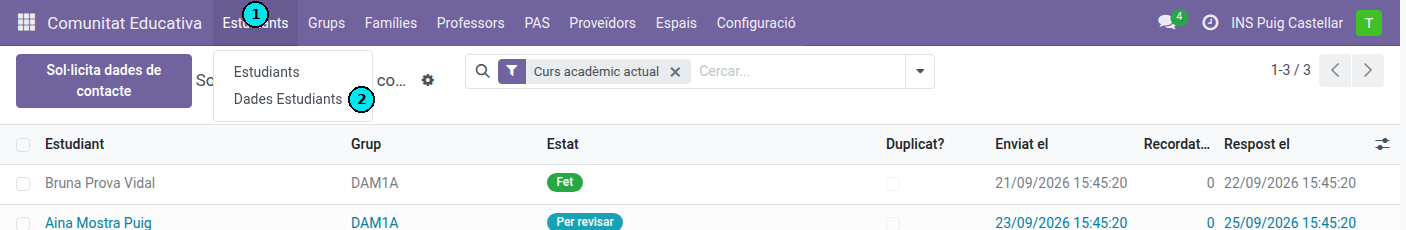
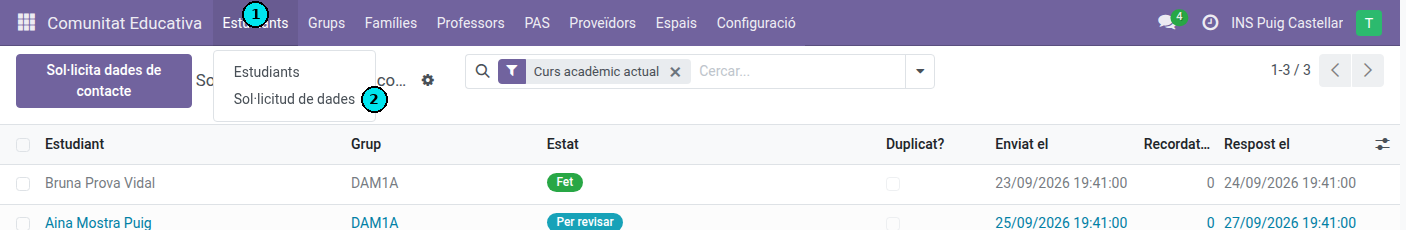
done

diff --git a/static/tests/tours/contact_data_request_tour.js b/static/tests/tours/contact_data_request_tour.js
@@ -143,7 +143,7 @@ registry.category("web_tour.tours").add("ems_contact_data_tutor", {
 });
 
 // Educational Community opens the Students list, and its Students section (a dropdown, since it now
-// holds two entries) leads to Student Data. Selectors are the menus' xmlids: the labels are translated.
+// holds two entries) leads to Data request. Selectors are the menus' xmlids: the labels are translated.
 registry.category("web_tour.tours").add("ems_contact_data_menu", {
     test: true,
     url: "/odoo",
@@ -173,12 +173,12 @@ registry.category("web_tour.tours").add("ems_contact_data_menu", {
         },
         {
             trigger: ".o-dropdown--menu .dropdown-item[data-menu-xmlid='ems.menu_contact_data_requests']",
-            content: "and Student Data",
+            content: "and Data request",
             run: "click",
         },
         {
             trigger: ".o_action_manager .o_list_view",
-            content: "Student Data lists the contact data requests",
+            content: "Data request lists the contact data requests",
         },
     ],
 });

diff --git a/tests/test_contact_data_request.py b/tests/test_contact_data_request.py
@@ -386,10 +386,10 @@ class TestContactDataRequestCorporateEmail(TransactionCase):
 
 
 class TestContactDataRequestMenu(TransactionCase):
-    """Student Data sits under Educational Community > Students (issue #507): Students is a section
+    """Data request sits under Educational Community > Students (issue #507): Students is a section
     holding the Students list and this menu."""
 
-    def test_students_is_a_section_with_the_students_list_and_student_data(self):
+    def test_students_is_a_section_with_the_students_list_and_data_request(self):
         community = self.env.ref('ems.menu_community')
         section = self.env.ref('ems.menu_students_root')
         students = self.env.ref('ems.menu_students')
@@ -404,8 +404,8 @@ class TestContactDataRequestMenu(TransactionCase):
     def test_menu_names_are_translated(self):
         section = self.env.ref('ems.menu_students_root')
         data = self.env.ref('ems.menu_contact_data_requests')
-        self.assertEqual(data.with_context(lang='en_US').name, 'Student Data')
-        self.assertEqual(data.with_context(lang='ca_ES').name, 'Dades Estudiants')
-        self.assertEqual(data.with_context(lang='es_ES').name, 'Datos Estudiantes')
+        self.assertEqual(data.with_context(lang='en_US').name, 'Data request')
+        self.assertEqual(data.with_context(lang='ca_ES').name, 'Sol·licitud de dades')
+        self.assertEqual(data.with_context(lang='es_ES').name, 'Solicitud de datos')
         self.assertEqual(section.with_context(lang='ca_ES').name, 'Estudiants')
         self.assertEqual(section.with_context(lang='es_ES').name, 'Estudiantes')

diff --git a/migrations/18.0.0.30.1/post-migrate.py b/migrations/18.0.0.30.1/post-migrate.py
@@ -1,0 +1,22 @@
+import logging
+
+_logger = logging.getLogger(__name__)
+
+
+def _drop_stale_data_request_menu_translations(cr):
+    """The "Student Data" menu (menu_contact_data_requests) was renamed "Data request". The
+    upgrade writes the new English name, but loads the .po files without overwriting existing
+    values, so the Catalan and Spanish names kept the old label. Dropping those two keys here
+    (post-migrate runs before the translations load) lets the .po fill them in again."""
+    cr.execute("""
+        UPDATE ir_ui_menu
+           SET name = name - 'ca_ES' - 'es_ES'
+         WHERE id = (SELECT res_id FROM ir_model_data
+                      WHERE module = 'ems' AND name = 'menu_contact_data_requests')
+    """)
+    if cr.rowcount:
+        _logger.info("Migration 18.0.0.30.1: reset the translations of the Data request menu.")
+
+
+def migrate(cr, version):
+    _drop_stale_data_request_menu_translations(cr)

diff --git a/__manifest__.py b/__manifest__.py
@@ -18,7 +18,7 @@
     # Check https://github.com/odoo/odoo/blob/16.0/odoo/addons/base/data/ir_module_category_data.xml
     # for the full list
     'category': 'Educational',
-    'version': '18.0.0.30.0',    #18.0 means the Odoo version; x.y.z means 'breaking.feature.fix'. The '0.y.z' is for alpha/beta pre-release.
+    'version': '18.0.0.30.1',    #18.0 means the Odoo version; x.y.z means 'breaking.feature.fix'. The '0.y.z' is for alpha/beta pre-release.
 
     # any module necessary for this one to work correctly
     # only 'base_setup', 'hr', 'auth_oauth' are needed. The rest are installed sometimes (and sometimes nor) and I don't know why, so I decided to install all manyally in order to avoid errors.

diff --git a/docs/es/tutors/contact-data-requests.md b/docs/es/tutors/contact-data-requests.md
@@ -22,9 +22,9 @@ Disponible para los tutores de grupo (para su alumnado), la secretaría y la jef
 
 ## Enviar una solicitud
 
-![Menú Comunidad educativa con la sección Estudiantes abierta: Estudiantes y Datos Estudiantes](../../assets/tutors/dades-contacte-01-menu.png)
+![Menú Comunidad educativa con la sección Estudiantes abierta: Estudiantes y Solicitud de datos](../../assets/tutors/dades-contacte-01-menu.png)
 
-1. Id a **Comunidad educativa → Estudiantes (1) → Datos Estudiantes (2)** y haced clic en **Solicitar datos de contacto**. También podéis abrirlo desde el menú ⚙ de la lista de estudiantes, de la ficha de un estudiante, de la lista de grupos o de la ficha de un grupo.
+1. Id a **Comunidad educativa → Estudiantes (1) → Solicitud de datos (2)** y haced clic en **Solicitar datos de contacto**. También podéis abrirlo desde el menú ⚙ de la lista de estudiantes, de la ficha de un estudiante, de la lista de grupos o de la ficha de un grupo.
 2. Elegid quién la recibe:
    - **Grupos / estudios / niveles**: elegid los grupos. Los tutores solo pueden elegir sus grupos.
    - **Alumnos seleccionados**: elegid los alumnos uno a uno.
@@ -41,7 +41,7 @@ Cada alumno, o la familia de un menor, recibe un correo con un enlace al portal.
 
 ![Lista de seguimiento de las solicitudes, con los estados Pendiente de respuesta, Por revisar y Hecho](../../assets/tutors/dades-contacte-03-seguiment.png)
 
-En **Comunidad educativa → Estudiantes → Datos Estudiantes**:
+En **Comunidad educativa → Estudiantes → Solicitud de datos**:
 
 - **Pendiente de respuesta**: enviada, todavía sin respuesta.
 - **Por revisar**: la familia ha respondido.

diff --git a/docs/ca/tutors/contact-data-requests.md b/docs/ca/tutors/contact-data-requests.md
@@ -22,9 +22,9 @@ Disponible per als tutors de grup (per al seu alumnat), la secretaria i la direc
 
 ## Enviar una sol·licitud
 
-![Menú Comunitat Educativa amb la secció Estudiants oberta: Estudiants i Dades Estudiants](../../assets/tutors/dades-contacte-01-menu.png)
+![Menú Comunitat Educativa amb la secció Estudiants oberta: Estudiants i Sol·licitud de dades](../../assets/tutors/dades-contacte-01-menu.png)
 
-1. Aneu a **Comunitat Educativa → Estudiants (1) → Dades Estudiants (2)** i feu clic a **Sol·licita dades de contacte**. També el podeu obrir des del menú ⚙ de la llista d'estudiants, de la fitxa d'un estudiant, de la llista de grups o de la fitxa d'un grup.
+1. Aneu a **Comunitat Educativa → Estudiants (1) → Sol·licitud de dades (2)** i feu clic a **Sol·licita dades de contacte**. També el podeu obrir des del menú ⚙ de la llista d'estudiants, de la fitxa d'un estudiant, de la llista de grups o de la fitxa d'un grup.
 2. Trieu qui la rep:
    - **Grups / estudis / nivells**: trieu els grups. Els tutors només poden triar els seus grups.
    - **Alumnes seleccionats**: trieu els alumnes un per un.
@@ -41,7 +41,7 @@ Cada alumne, o la família d'un menor, rep un correu amb un enllaç al portal. E
 
 ![Llista de seguiment de les sol·licituds, amb els estats Pendent de resposta, Per revisar i Fet](../../assets/tutors/dades-contacte-03-seguiment.png)
 
-A **Comunitat Educativa → Estudiants → Dades Estudiants**:
+A **Comunitat Educativa → Estudiants → Sol·licitud de dades**:
 
 - **Pendent de resposta**: enviada, encara sense resposta.
 - **Per revisar**: la família ha respost.

diff --git a/docs/en/tutors/contact-data-requests.md b/docs/en/tutors/contact-data-requests.md
@@ -22,9 +22,9 @@ Available to group tutors (for their own students), the secretariat and the Head
 
 ## Sending a request
 
-![Educational Community menu with the Students section open: Students and Student Data](../../assets/tutors/dades-contacte-01-menu.png)
+![Educational Community menu with the Students section open: Students and Data request](../../assets/tutors/dades-contacte-01-menu.png)
 
-1. Go to **Educational Community → Students (1) → Student Data (2)** and click **Request contact data**. You can also open it from the ⚙ menu of the students list, a student's form, the groups list or a group's form.
+1. Go to **Educational Community → Students (1) → Data request (2)** and click **Request contact data**. You can also open it from the ⚙ menu of the students list, a student's form, the groups list or a group's form.
 2. Choose who receives it:
    - **Groups / studies / levels**: pick the groups. Tutors can only pick their own groups.
    - **Selected students**: pick the students one by one.
@@ -41,7 +41,7 @@ Each student, or the family of a minor, receives an email with a link to the por
 
 ![Follow-up list of the requests, with the states Pending answer, To review and Done](../../assets/tutors/dades-contacte-03-seguiment.png)
 
-In **Educational Community → Students → Student Data**:
+In **Educational Community → Students → Data request**:
 
 - **Pending answer**: sent, not answered yet.
 - **To review**: the family has answered.

diff --git a/docs/en/developers/contacts/contact_data_request.md b/docs/en/developers/contacts/contact_data_request.md
@@ -20,7 +20,7 @@ levels), answered on `/my/dades-contacte`, and applied only once a reviewer appr
 | `views/community/contact_data_request/` | Send wizard, bindings (students list/form, groups list/form), request list/form/search, return wizard, menu |
 | `mails/contacts/contact_data_request.xml` | `ems.email_template_contact_data_request` (first request, reminder, returned) |
 
-The menu is **Educational Community > Students > Student Data** (`menu_contact_data_requests`,
+The menu is **Educational Community > Students > Data request** (`menu_contact_data_requests`,
 groups: academic admin, secretary, head of studies, tutor). *Students* is a section
 (`menu_students_root`, no action) holding the Students list (`menu_students`, which keeps its action:
 the cog-menu scripts read it by xmlid) and this menu, so clicking Educational Community still opens the

diff --git a/changelog/473-documentid-on-employees.md b/changelog/473-documentid-on-employees.md
@@ -16,6 +16,13 @@
 
 # Changes
 
+## Students > "Student Data" menu renamed "Data request":
+- The menu is now "Data request" ("Sol·licitud de dades" / "Solicitud de datos"). The tutors'
+  manuals and their menu screenshot are updated to match.
+- Migration 18.0.0.30.1 (post-migrate) drops the menu's old Catalan/Spanish names, since an
+  upgrade loads the .po files without overwriting existing translations and would otherwise
+  keep "Dades Estudiants"/"Datos Estudiantes".
+
 ## Schedule is the first tab on the teacher and group forms:
 - The "Schedule" tab is now the first one (and so the one open by default) on the teacher/ASP
   form and on the group form, the same as the My Profile screen already did. For an ASP
